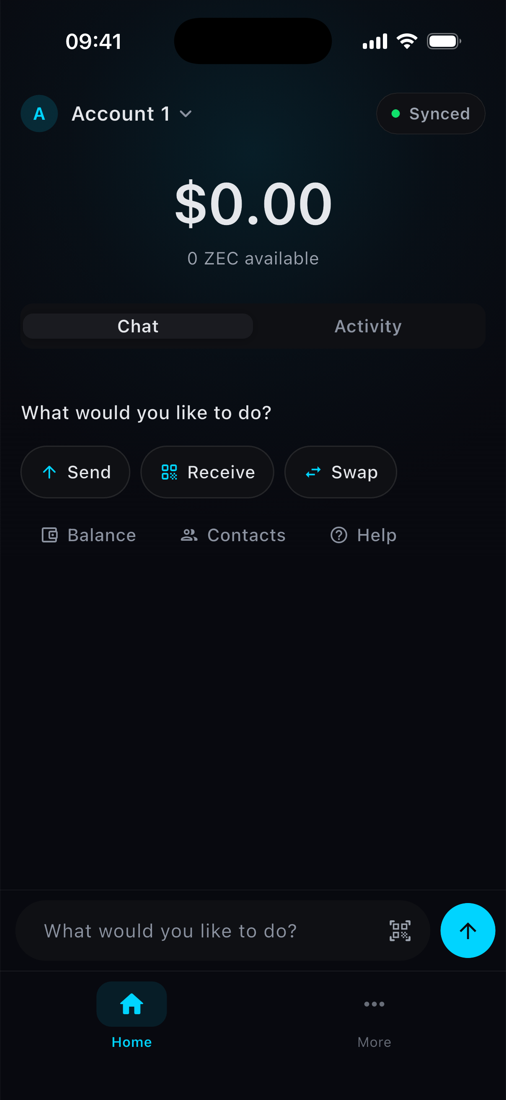
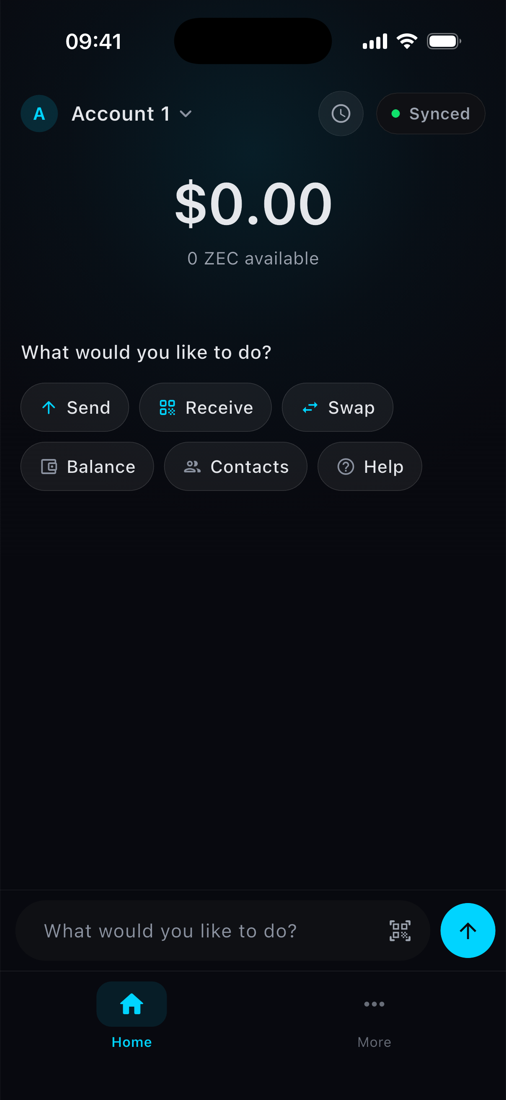
Home: Activity button in the header instead of tabs; one chip style
The Chat/Activity switcher read as a black bar. Home now shows the
conversation full height; a round Activity button in the header (badge =
items in progress) swaps in Activity, which has its own title and Done.
The six chat shortcuts are now identical glass chips in one row, with cyan
icons on Send, Receive and Swap.

diff --git a/lib/pages/action/wallet_chat.dart b/lib/pages/action/wallet_chat.dart
@@ -1908,8 +1908,98 @@ class _WalletChatState extends State<_WalletChat> with WidgetsBindingObserver {
                           fontSize: 12,
                           fontWeight: FontWeight.w600,
                           color: ZipherColors.orange))),
+            _activityButton(),
+            const SizedBox(width: ZipherSpacing.sm),
             _walletIndicators(),
           ])));
+
+  /// Opens Activity in place of the conversation; the badge counts items
+  /// still in progress. Tapping again returns to the conversation.
+  Widget _activityButton() => ListenableBuilder(
+      listenable: _swapTracker,
+      builder: (_, __) => Observer(builder: (_) {
+            final open = _homeTab == WalletHomeTab.activity;
+            final pending = WalletActivityPanel.pendingCount(
+                _account.txs.items.toList(), _swapTracker.entries);
+            void toggle() {
+              FocusScope.of(context).unfocus();
+              final next =
+                  open ? WalletHomeTab.chat : WalletHomeTab.activity;
+              AppLog.instance.event('activity', '${next.name}_opened');
+              setState(() => _homeTab = next);
+            }
+
+            return Tooltip(
+                message: 'Activity',
+                child: Semantics(
+                    button: true,
+                    selected: open,
+                    label: pending > 0
+                        ? 'Activity, $pending in progress'
+                        : 'Activity',
+                    excludeSemantics: true,
+                    child: GestureDetector(
+                        onTap: toggle,
+                        child: SizedBox(
+                            width: 40,
+                            height: 40,
+                            child: Stack(
+                                clipBehavior: Clip.none,
+                                alignment: Alignment.center,
+                                children: [
+                                  AnimatedContainer(
+                                      duration:
+                                          const Duration(milliseconds: 180),
+                                      width: 36,
+                                      height: 36,
+                                      decoration: BoxDecoration(
+                                          shape: BoxShape.circle,
+                                          color: open
+                                              ? ZipherColors.cyan
+                                                  .withValues(alpha: .16)
+                                              : Colors.white
+                                                  .withValues(alpha: .06),
+                                          border: Border.all(
+                                              color: open
+                                                  ? ZipherColors.cyan
+                                                      .withValues(alpha: .35)
+                                                  : ZipherColors.borderSubtle,
+                                              width: .5)),
+                                      child: Icon(Icons.schedule_rounded,
+                                          size: 18,
+                                          color: open
+                                              ? ZipherColors.cyan
+                                              : ZipherColors.text60)),
+                                  if (pending > 0)
+                                    Positioned(
+                                        top: -1,
+                                        right: -2,
+                                        child: Container(
+                                            constraints: const BoxConstraints(
+                                                minWidth: 17),
+                                            height: 17,
+                                            padding: const EdgeInsets
+                                                .symmetric(horizontal: 4),
+                                            alignment: Alignment.center,
+                                            decoration: BoxDecoration(
+                                                color: ZipherColors.cyan,
+                                                borderRadius:
+                                                    BorderRadius.circular(9),
+                                                border: Border.all(
+                                                    color: ZipherColors.bg,
+                                                    width: 2)),
+                                            child: Text(
+                                                pending > 99
+                                                    ? '99+'
+                                                    : '$pending',
+                                                style: const TextStyle(
+                                                    fontSize: 10,
+                                                    fontWeight:
+                                                        FontWeight.w700,
+                                                    color: ZipherColors
+                                                        .textOnBrand)))),
+                                ])))));
+          }));
 
   Widget _buildSuggestionChips() => Padding(
       padding: const EdgeInsets.only(top: 18, bottom: 8),
@@ -1919,29 +2009,22 @@ class _WalletChatState extends State<_WalletChat> with WidgetsBindingObserver {
                 fontSize: 15,
                 color: ZipherColors.textPrimary,
                 fontWeight: FontWeight.w500)),
-        const SizedBox(height: 16),
+        const SizedBox(height: 14),
+        // One row of identical chips, like suggested replies. The main
+        // actions get a cyan icon; the rest stay neutral.
         Wrap(spacing: 8, runSpacing: 8, children: [
-          for (final (icon, label) in [
-            (Icons.arrow_upward_rounded, 'Send'),
-            (Icons.qr_code_rounded, 'Receive'),
-            (Icons.swap_horiz, 'Swap'),
+          for (final (icon, label, main) in [
+            (Icons.arrow_upward_rounded, 'Send', true),
+            (Icons.qr_code_rounded, 'Receive', true),
+            (Icons.swap_horiz, 'Swap', true),
+            (Icons.account_balance_wallet_outlined, 'Balance', false),
+            (Icons.people_outline_rounded, 'Contacts', false),
+            (Icons.help_outline, 'Help', false),
           ])
             ZChatShortcut(
                 icon: icon,
                 label: label,
-                onTap: _busy ? null : () => _submit(label)),
-        ]),
-        const SizedBox(height: 8),
-        Wrap(spacing: 4, runSpacing: 4, children: [
-          for (final (icon, label) in [
-            (Icons.account_balance_wallet_outlined, 'Balance'),
-            (Icons.people_outline_rounded, 'Contacts'),
-            (Icons.help_outline, 'Help'),
-          ])
-            ZChatShortcut(
-                icon: icon,
-                label: label,
-                secondary: true,
+                secondary: !main,
                 onTap: _busy ? null : () => _submit(label)),
         ]),
       ]));
@@ -2383,7 +2466,6 @@ class _WalletChatState extends State<_WalletChat> with WidgetsBindingObserver {
           builder: (_) => WalletActivityPanel(
               chat: chat,
               selectedTab: _homeTab,
-              showTabs: MediaQuery.viewInsetsOf(context).bottom == 0,
               onTabChanged: (tab) {
                 FocusScope.of(context).unfocus();
                 AppLog.instance.event('activity', '${tab.name}_opened');

diff --git a/lib/pages/action/widgets/wallet_activity_panel.dart b/lib/pages/action/widgets/wallet_activity_panel.dart
@@ -20,7 +20,6 @@ class WalletActivityPanel extends StatelessWidget {
       required this.chat,
       required this.selectedTab,
       required this.onTabChanged,
-      this.showTabs = true,
       this.now});
   final List<Tx> transactions;
   final List<WalletSwapActivity> swaps;
@@ -29,41 +28,50 @@ class WalletActivityPanel extends StatelessWidget {
   final Widget chat;
   final WalletHomeTab selectedTab;
   final ValueChanged<WalletHomeTab> onTabChanged;
-  final bool showTabs;
 
   /// Clock for day headings; the device clock unless a test supplies one.
   final DateTime Function()? now;
 
-  bool _pending(Tx tx) => tx.height == 0 && !tx.expiredUnmined;
-  List<Tx> get _transactions {
+  static bool _pending(Tx tx) => tx.height == 0 && !tx.expiredUnmined;
+
+  /// Transactions minus swap deposits, which their swap row represents.
+  static List<Tx> _withoutDeposits(
+      List<Tx> transactions, List<WalletSwapActivity> swaps) {
     final deposits =
         swaps.map((entry) => entry.swap.txId).whereType<String>().toSet();
     return transactions.where((tx) => !deposits.contains(tx.fullTxId)).toList();
   }
 
+  List<Tx> get _transactions => _withoutDeposits(transactions, swaps);
+
+  /// Items still in progress, for the badge on the home Activity button.
+  static int pendingCount(
+          List<Tx> transactions, List<WalletSwapActivity> swaps) =>
+      _withoutDeposits(transactions, swaps).where(_pending).length +
+      swaps.where((entry) => entry.isLive).length;
+
+  /// No switcher: the home header's Activity button selects the view, and
+  /// Activity has its own title with Done to go back to the conversation.
   @override
-  Widget build(BuildContext context) => Column(children: [
-        if (showTabs)
+  Widget build(BuildContext context) =>
+      IndexedStack(index: selectedTab.index, children: [
+        chat,
+        Column(children: [
           Padding(
-              padding: const EdgeInsets.fromLTRB(ZipherSpacing.md,
-                  ZipherSpacing.xs, ZipherSpacing.md, ZipherSpacing.sm),
-              child: ZipherSegmented<WalletHomeTab>(
-                  selected: selectedTab,
-                  onChanged: onTabChanged,
-                  segments: [
-                    (value: WalletHomeTab.chat, label: 'Chat', badge: 0),
-                    (
-                      value: WalletHomeTab.activity,
-                      label: 'Activity',
-                      badge: _transactions.where(_pending).length +
-                          swaps.where((entry) => entry.isLive).length
-                    ),
-                  ])),
-        Expanded(
-            child: IndexedStack(index: selectedTab.index, children: [
-          chat,
-          _activity(),
-        ])),
+              padding: const EdgeInsets.fromLTRB(
+                  ZipherSpacing.md + ZipherSpacing.xs, ZipherSpacing.xs,
+                  ZipherSpacing.sm, 0),
+              child: Row(children: [
+                const Expanded(
+                    child: Text('Activity', style: ZipherType.title)),
+                ZipherButton(
+                    label: 'Done',
+                    kind: ZipherButtonKind.plain,
+                    size: ZipherButtonSize.small,
+                    onPressed: () => onTabChanged(WalletHomeTab.chat)),
+              ])),
+          Expanded(child: _activity()),
+        ]),
       ]);
 
   /// Day heading: Today, Yesterday, a weekday this week, else the date.

diff --git a/lib/pages/action/widgets/z_chat_widgets.dart b/lib/pages/action/widgets/z_chat_widgets.dart
@@ -138,22 +138,21 @@ class ZChatShortcut extends StatelessWidget {
                 borderRadius: BorderRadius.circular(ZipherRadius.full),
                 child: Container(
                     padding: const EdgeInsets.symmetric(
-                        horizontal: 14, vertical: 10),
+                        horizontal: 14, vertical: 9),
+                    // Same glass pill for every shortcut; [secondary] only
+                    // mutes the icon.
                     decoration: BoxDecoration(
-                        color: secondary
-                            ? Colors.transparent
-                            : ZipherColors.cardBg,
+                        color: Colors.white.withValues(alpha: .06),
                         borderRadius: BorderRadius.circular(ZipherRadius.full),
                         border: Border.all(
-                            color: secondary
-                                ? Colors.transparent
-                                : ZipherColors.borderSubtle)),
+                            color: Colors.white.withValues(alpha: .12),
+                            width: .5)),
                     child: Row(mainAxisSize: MainAxisSize.min, children: [
                       leading ??
                           Icon(icon,
                               size: 16,
                               color: onTap == null
-                                  ? ZipherColors.text40
+                                  ? ZipherColors.text20
                                   : secondary
                                       ? ZipherColors.text40
                                       : ZipherColors.cyan),
@@ -162,9 +161,7 @@ class ZChatShortcut extends StatelessWidget {
                           style: TextStyle(
                               color: onTap == null
                                   ? ZipherColors.text40
-                                  : secondary
-                                      ? ZipherColors.text40
-                                      : ZipherColors.textPrimary,
+                                  : ZipherColors.text90,
                               fontSize: 14,
                               fontWeight: FontWeight.w500)),
                     ])))),

diff --git a/test/wallet_chat_test.dart b/test/wallet_chat_test.dart
@@ -270,12 +270,12 @@ void main() {
           100, 1, 99, DateTime.now(), 'test', 'test', .25, null, null, null, [])
     ];
     await open(tester);
-    await tester.tap(find.text('Activity'));
+    await tester.tap(find.byTooltip('Activity'));
     await tester.tap(find.bySemanticsLabel(RegExp('Expand balance details')));
     await tester.pumpAndSettle();
     expect(find.text('Today'), findsOneWidget);
     expect(find.byType(TextField), findsNothing);
-    await tester.tap(find.text('Chat'));
+    await tester.tap(find.text('Done'));
     await tester.pumpAndSettle();
     await tester.enterText(find.byType(TextField), 'send .5');
     tester.view.viewInsets = const FakeViewPadding(bottom: 280);
@@ -408,7 +408,7 @@ void main() {
         theme: ZipherTheme.dark,
         localizationsDelegates: const [S.delegate]));
     await tester.pumpAndSettle();
-    await tester.tap(find.text('Activity'));
+    await tester.tap(find.byTooltip('Activity'));
     await tester.pumpAndSettle();
     await tester.tap(find.text('+0.2 ZEC'));
     await tester.pumpAndSettle();
@@ -584,7 +584,7 @@ void main() {
     await tester.tap(find.byTooltip('Send message'));
     await tester.pumpAndSettle();
     expect(find.byType(ZChatComposer), findsNothing);
-    await tester.tap(find.text('Chat'));
+    await tester.tap(find.text('Done'));
     await tester.pumpAndSettle();
     expect(find.byType(ZChatComposer), findsOneWidget);
   });
@@ -648,13 +648,13 @@ void main() {
     await tester.pumpAndSettle();
     expect(find.byType(TextField), findsOneWidget);
     expect(find.text('Incoming'), findsNothing);
-    await tester.tap(find.text('Activity'));
+    await tester.tap(find.byTooltip('Activity'));
     await tester.pumpAndSettle();
     expect(find.byType(TextField), findsNothing);
     expect(find.widgetWithText(ZChatShortcut, 'Send'), findsNothing);
     expect(find.text('In progress'), findsOneWidget);
     expect(find.text('Incoming'), findsOneWidget);
-    await tester.tap(find.text('Chat'));
+    await tester.tap(find.text('Done'));
     await tester.pumpAndSettle();
     expect(find.text('send .02'), findsOneWidget);
     expect(find.text('Incoming'), findsNothing);

diff --git a/docs/design-system.md b/docs/design-system.md
@@ -93,8 +93,8 @@ Amounts always carry their unit and direction (`+0.25 ZEC`, `−0.01 ZEC`).
 - **Grouped list**: `ZipherWidgets.group([...rows])` with `ZipherWidgets.row`:
   icon tile, title, optional subtitle, chevron when tappable. Used by More,
   Wallet status and Activity.
-- **Segmented control**: `ZipherSegmented` for 2 to 3 peer views (Chat or
-  Activity), with an optional count badge.
+- **Segmented control**: `ZipherSegmented` for 2 to 3 peer views inside a
+  page, with an optional count badge. Not used on home.
 - **Status dot**: `ZipherWidgets.statusDot`, which always comes with a word
   next to it.
 - **Sheets**: opaque `surface`, drag handle, a `title` heading, then content.
@@ -110,6 +110,12 @@ Amounts always carry their unit and direction (`+0.25 ZEC`, `−0.01 ZEC`).
   single status pill on the right (sync dot and word, plus a lock when Zcash
   traffic uses Tor). Tapping it opens **Wallet status**: sync, network route,
   shielding and agent, each explained in one line and tappable.
+- **Home switching**: no tab bar. The conversation fills the screen; a round
+  Activity button in the header (clock icon, cyan badge with the number of
+  items in progress) swaps it for Activity, which has its own title and Done.
+- **Chat shortcuts**: one wrapping row of identical glass chips, like
+  suggested replies. Send, Receive and Swap get a cyan icon; the rest a
+  neutral one. Tapping a chip is the same as typing its word.
 - **Activity**: an "In progress" group first, then groups by day (Today,
   Yesterday, a weekday, then dates). Each row has a direction glyph or token
   logo, a title, the time (and memo), and an amount with its sign. A swap shows

diff --git a/docs/chat-home.md b/docs/chat-home.md
@@ -18,7 +18,7 @@ is also in More → Agent. Design rules: `docs/design-system.md`.
 Shared opaque surface and text tokens keep sheets, chat cards, inputs and pages
 consistent. The pool sheet uses the root navigator and an opaque surface, covering
 the composer and bottom navigation. Pool colors use the shared pool tokens.
-Home has two mutually exclusive views, Chat and Activity, chosen with a segmented control. Chat is the default and
+Home has two mutually exclusive views, Chat and Activity. There is no tab bar: the header's Activity button (with a badge counting items in progress) switches to Activity, whose Done button returns to the chat. Chat is the default and
 contains messages, action shortcuts and the composer. Activity uses the full
 remaining height, with pending Zcash transfers and active NEAR Intents swaps
 first ("In progress"), followed by settled transactions and swap results grouped
